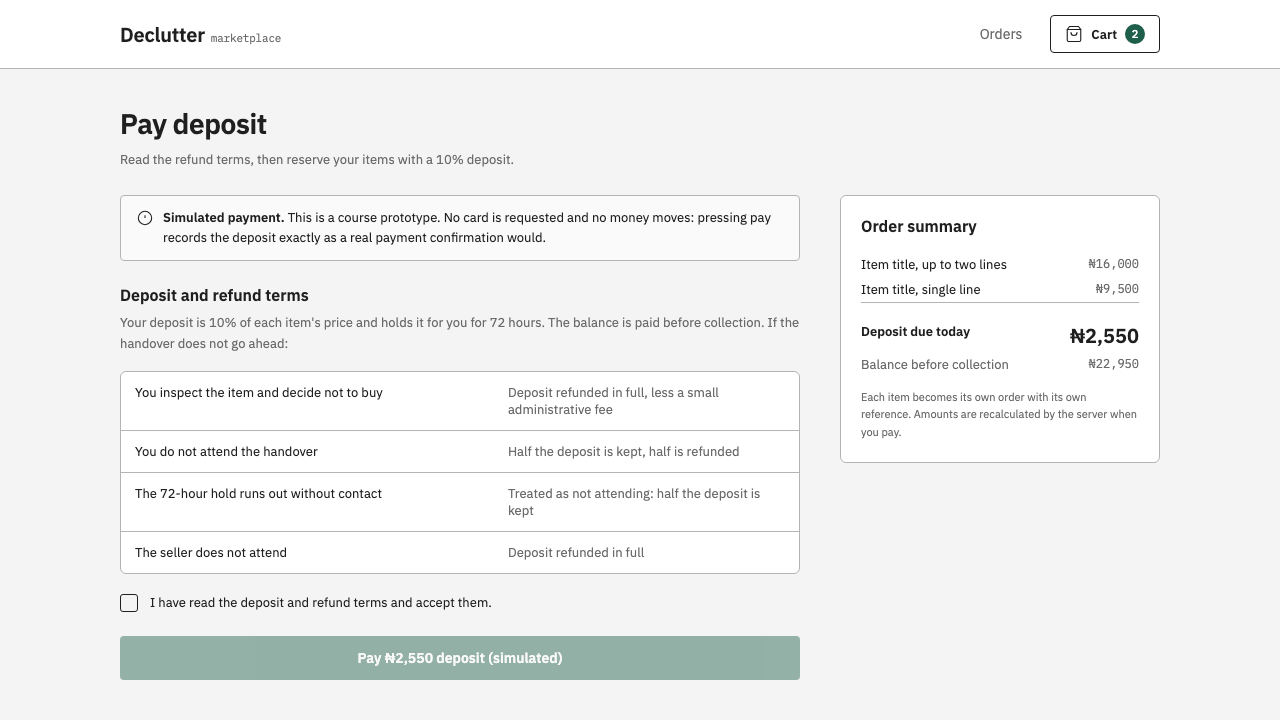
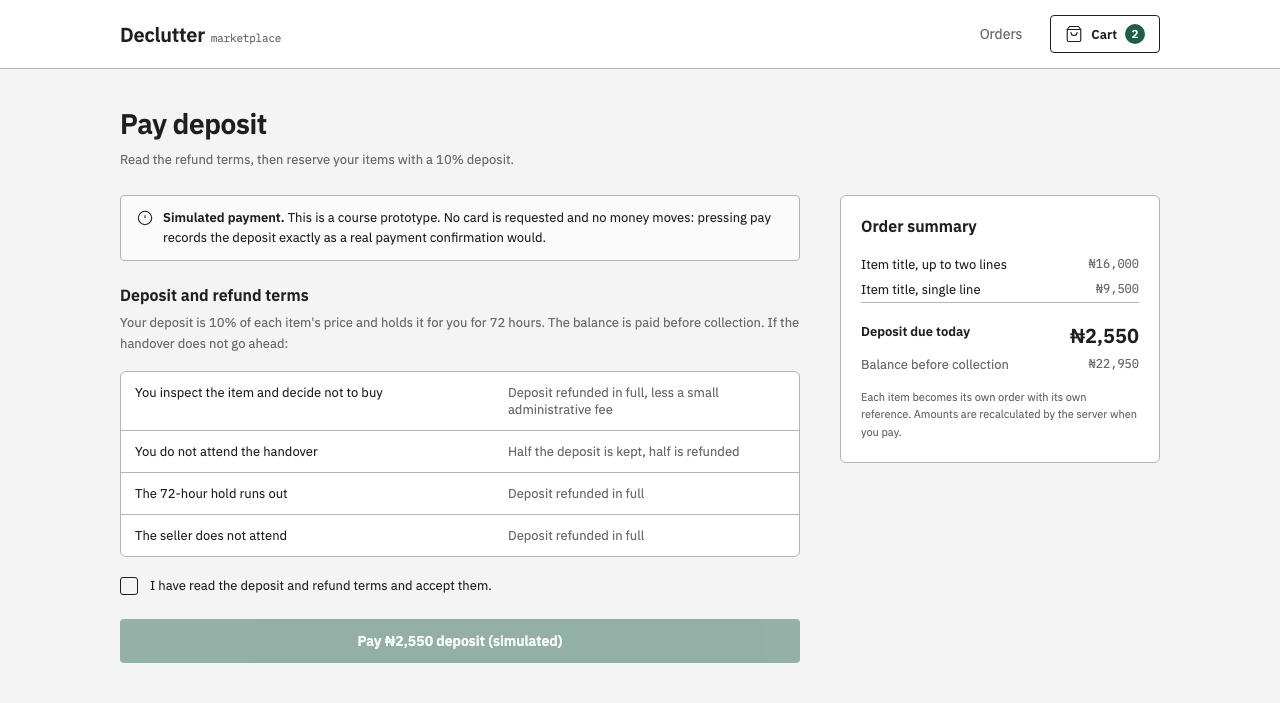
BUY-7: wireframes, checklist and journal for slice 16
slice 16, #29. Wireframes carry the new expiry term and show a lapsed order
as refunded. T-RESPONSIVE ticked from the 390px and 1280px walk. The three
gaps recorded at Phase 2 are marked fixed.

diff --git a/docs/wireframes/pages/4-checkout.html b/docs/wireframes/pages/4-checkout.html
@@ -21,7 +21,7 @@
     <div class="notice" style="display:flex;gap:10px"><svg width="16" height="16" viewBox="0 0 24 24" fill="none" stroke="currentColor" stroke-width="1.6" style="flex:none;margin-top:2px"><circle cx="12" cy="12" r="10"/><path d="M12 8v4M12 16h.01"/></svg><span><b>Simulated payment.</b> This is a course prototype. No card is requested and no money moves: pressing pay records the deposit exactly as a real payment confirmation would.</span></div>
     <div style="font-weight:600;font-size:16px;margin-top:24px">Deposit and refund terms</div>
     <p class="lede" style="margin:8px 0 0">Your deposit is 10% of each item's price and holds it for you for 72 hours. The balance is paid before collection. If the handover does not go ahead:</p>
-    <div class="card"><table class="terms"><tr><td>You inspect the item and decide not to buy</td><td>Deposit refunded in full, less a small administrative fee</td></tr><tr><td>You do not attend the handover</td><td>Half the deposit is kept, half is refunded</td></tr><tr><td>The 72-hour hold runs out without contact</td><td>Treated as not attending: half the deposit is kept</td></tr><tr><td>The seller does not attend</td><td>Deposit refunded in full</td></tr></table></div>
+    <div class="card"><table class="terms"><tr><td>You inspect the item and decide not to buy</td><td>Deposit refunded in full, less a small administrative fee</td></tr><tr><td>You do not attend the handover</td><td>Half the deposit is kept, half is refunded</td></tr><tr><td>The 72-hour hold runs out</td><td>Deposit refunded in full</td></tr><tr><td>The seller does not attend</td><td>Deposit refunded in full</td></tr></table></div>
     <div class="check" style="margin-top:20px"><span class="box"></span>I have read the deposit and refund terms and accept them.</div>
     <span class="btn ajax disabled" style="margin-top:24px">Pay &#8358;2,550 deposit (simulated)</span>
   </div>

diff --git a/docs/wireframes/pages/5-confirmation.html b/docs/wireframes/pages/5-confirmation.html
@@ -39,7 +39,7 @@
     <div class="kv muted"><span>Total balance outstanding</span><span class="mono">&#8358;22,950</span></div></div>
 </div>
 <div style="font-weight:600;font-size:15px;margin:32px 0 12px">The terms you accepted</div>
-<p class="lede" style="margin:0 0 8px">You inspect the item and decide not to buy: deposit refunded in full, less a small administrative fee.</p><p class="lede" style="margin:0 0 8px">You do not attend the handover: half the deposit is kept, half is refunded.</p><p class="lede" style="margin:0 0 8px">The 72-hour hold runs out without contact: treated as not attending: half the deposit is kept.</p><p class="lede" style="margin:0 0 8px">The seller does not attend: deposit refunded in full.</p>
+<p class="lede" style="margin:0 0 8px">You inspect the item and decide not to buy: deposit refunded in full, less a small administrative fee.</p><p class="lede" style="margin:0 0 8px">You do not attend the handover: half the deposit is kept, half is refunded.</p><p class="lede" style="margin:0 0 8px">The 72-hour hold runs out: deposit refunded in full.</p><p class="lede" style="margin:0 0 8px">The seller does not attend: deposit refunded in full.</p>
 <div class="card pad stack" style="margin-top:28px;border-color:#1f1f1f">
   <div style="font-weight:600;font-size:15px">Keep track of this</div>
   <p class="lede" style="margin:8px 0 0">Your orders are always here, with what you paid, what is left to pay and how long each item is held.</p>

diff --git a/docs/wireframes/pages/6-orders.html b/docs/wireframes/pages/6-orders.html
@@ -33,13 +33,13 @@
   <div style="opacity:.6"><div class="title">Item title, up to two lines</div>
     <div class="mono small muted only-phone" style="margin-top:4px">DCL-XXXXXXX3</div>
     <div style="margin:8px 0"><span class="chip">Hold expired</span></div>
-    <div style="font-size:13px"><span class="muted">&#8358;4,900 deposit</span></div></div>
+    <div style="font-size:13px"><span class="muted">&#8358;4,900 deposit refunded</span></div></div>
   <div class="ref mono small muted">DCL-XXXXXXX3</div></div>
   <div class="card olist"><div class="ph thumb" style=""><svg viewBox="0 0 100 100" preserveAspectRatio="none"><line x1="0" y1="0" x2="100" y2="100" stroke="#c4c4c4" stroke-width="0.6" vector-effect="non-scaling-stroke"/><line x1="100" y1="0" x2="0" y2="100" stroke="#c4c4c4" stroke-width="0.6" vector-effect="non-scaling-stroke"/></svg></div>
   <div style="opacity:.6"><div class="title">Item title, up to two lines</div>
     <div class="mono small muted only-phone" style="margin-top:4px">DCL-XXXXXXX4</div>
     <div style="margin:8px 0"><span class="chip">Hold expired</span></div>
-    <div style="font-size:13px"><span class="muted">&#8358;7,800 deposit</span></div></div>
+    <div style="font-size:13px"><span class="muted">&#8358;7,800 deposit refunded</span></div></div>
   <div class="ref mono small muted">DCL-XXXXXXX4</div></div>
 </div>
 

diff --git a/docs/wireframes/render.py b/docs/wireframes/render.py
@@ -148,7 +148,7 @@ cart = page("Cart", f"""
 
 TERMS = [("You inspect the item and decide not to buy", "Deposit refunded in full, less a small administrative fee"),
          ("You do not attend the handover", "Half the deposit is kept, half is refunded"),
-         ("The 72-hour hold runs out without contact", "Treated as not attending: half the deposit is kept"),
+         ("The 72-hour hold runs out", "Deposit refunded in full"),
          ("The seller does not attend", "Deposit refunded in full")]
 rows = "".join(f"<tr><td>{a}</td><td>{b}</td></tr>" for a, b in TERMS)
 summary = """<div class="card pad stack">
@@ -228,8 +228,8 @@ orders = page("Your orders", f"""
 <div class="stack">
   {olist("DCL-XXXXXXX1", "Deposit paid, held for you", '<span class="muted">&#8358;950 paid,</span> <b>&#8358;8,550</b> on collection')}
   {olist("DCL-XXXXXXX2", "Deposit paid, held for you", '<span class="muted">&#8358;1,600 paid,</span> <b>&#8358;14,400</b> on collection')}
-  {olist("DCL-XXXXXXX3", "Hold expired", '<span class="muted">&#8358;4,900 deposit</span>', faded=True)}
-  {olist("DCL-XXXXXXX4", "Hold expired", '<span class="muted">&#8358;7,800 deposit</span>', faded=True)}
+  {olist("DCL-XXXXXXX3", "Hold expired", '<span class="muted">&#8358;4,900 deposit refunded</span>', faded=True)}
+  {olist("DCL-XXXXXXX4", "Hold expired", '<span class="muted">&#8358;7,800 deposit refunded</span>', faded=True)}
 </div>
 """, badge="0")
 

diff --git a/docs/reflection-journal.md b/docs/reflection-journal.md
@@ -237,3 +237,13 @@ Not every entry needs all three headings. Use the ones that apply.
 **Challenge:** Verifying on a fresh volume showed `npm test` failing 107 of 205 tests on a clean clone. The test database existed but was never migrated: on the development machine it had been migrated by hand once, long ago, so the gap was invisible. A Vitest global setup now runs `prisma migrate deploy` against the test database before the suite, and the Postgres container creates `declutter_test` on first start. Both a fresh database and the existing one pass all 205.
 
 **Learning:** "A clean clone works" is only true if it was tried on a clean clone. The test database gap had been there since slice 02 and every check since ran on a machine that already had what the examiner would not. The verification ran in a separate compose project with its own volume and ports, which tested the real files without deleting the development data.
+
+## 2026-10-29, slice 16, a lapsed hold is refunded, and the phone pass
+
+**Deviation:** PRD §9 treats a hold that lapses without contact as abandonment and keeps half the deposit. On the submission branch there is no messaging and no meetup, so every hold lapses and none through the buyer's choice. Keeping half would penalise the only possible outcome. A lapsed hold is now refunded in full on this branch, and PRD §9 stands for the full concept, where contact exists. Recorded as ADR-0003. The checkout terms, the orders list and the order page had disagreed with each other and with the deck; they now share one rule, computed on the server.
+
+**Learning:** A scope reduction changes more than which features exist. The refund policy was written for a product where the buyer could act during the hold, and it stayed correct-looking in the code long after the build stopped offering that. Cutting scope means re-reading the rules that assumed the cut features, not only removing the features.
+
+**Challenge:** The phone pass needed a filled cart, which lives in `localStorage`, so a plain screenshot could not reach the cart, checkout or orders pages. Playwright drove the installed Chrome at 390px against a throwaway database, filled the cart, paid, lapsed one hold in the database, and measured every page for anything wider than the viewport. Nothing overflowed. The one real fault was found by reading the header code, not by the measurement: Orders was hidden below the `sm` breakpoint with no menu, so a phone could not reach it.
+
+**Learning:** Measurement and looking catch different faults. The overflow check proved no page breaks its width; only looking showed that a whole destination was missing from the phone navigation.

diff --git a/docs/course-checklist.md b/docs/course-checklist.md
@@ -38,7 +38,7 @@ The brief names four as the floor: "at minimum, you should have a product listin
 - [x] **T-SERVER-PRICE** — Prices and totals are computed server-side from stored values; a tampered client payload cannot change what is charged  _(2026-09-26 — verification pass over slices 06 to 09: checkout posted with `depositAmount: "1"`, `balanceAmount: "0"`, `total: "1"`; the stored order was ₦950 / ₦8,550, derived from the listed price. Admin pricing is guarded the same way: a `sellerPayoutAmount` in the body is ignored and the margin is checked against the stored column.)_
 - [x] **T-EDGE** — Edge cases handled gracefully rather than crashing: empty cart at checkout, adding the same item twice, an item that became unavailable, a detail page for a non-existent item  _(2026-09-26 — verification pass over slices 06 to 09: empty cart → 400 with a message; same item three times → one line and no doubled total, after the fix in `fix/cart-dedupe-boundary`; an item held by another buyer → 409 naming it, nothing charged; `/items/does-not-exist` → 404; refund terms unaccepted → 400. The empty-cart *page* copy renders only after localStorage is read, so it is covered by the cart unit tests and folded into the outstanding T-RESPONSIVE browser pass.)_
 - [x] **T-XSS** — User-generated content is escaped; script tags in a title, description or message body render as text  _(2026-09-26 — verified on `main` for the content it renders: item titles and descriptions, seeded with hostile strings, render as text. Message bodies and registrant names are not on `main`.)_
-- [ ] **T-RESPONSIVE** — Layout works on a phone viewport as well as a laptop
+- [x] **T-RESPONSIVE** — Layout works on a phone viewport as well as a laptop  _(2026-10-29, slice 16, #29: every buyer page walked at 390px and 1280px in Chrome, from catalogue through a paid checkout to a lapsed order and a missing item. No page wider than its viewport at either width. Orders link now reachable on a phone)_
 
 ## C. Repository and reproducibility (brief §1.2.1, §1.2.3)
 

diff --git a/docs/phase2-feedback.md b/docs/phase2-feedback.md
@@ -34,7 +34,7 @@ This changes the deck's Phase 2 "Next" panel, which listed "Fold full-scope back
 
 ## Found while preparing the screenshots
 
-Three gaps in the built pages, none blocking, all for Phase 3:
+Three gaps in the built pages. All three were fixed in slice 16 (#29), with the refund decision recorded in [ADR-0003](adr/0003-lapsed-hold-refund.md):
 
 1. At phone width the Orders link is hidden (`src/app/header.tsx`) and there is no menu, so a buyer on a phone can reach their orders only from a confirmation page.
 2. On the orders page an expired hold shows its status twice, as a tag and a chip.
